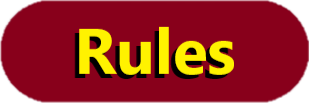
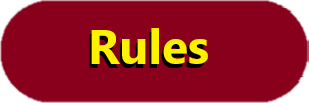
finished base game, changed main menu a bit

diff --git a/WAR/Game.py b/WAR/Game.py
@@ -53,12 +53,20 @@ singleplayer_img = pygame.image.load('Assets/start_btn.png').convert_alpha()
 singleplayer_img_hover = pygame.image.load('Assets/start_btn_hover.png').convert_alpha()
 multiplayer_img = pygame.image.load('Assets/start_btn2.png').convert_alpha()
 multiplayer_img_hover = pygame.image.load('Assets/start_btn2_hover.png').convert_alpha()
-rules_img = pygame.image.load('Assets/rules_btn_hover.png').convert_alpha()
+rules_img = pygame.image.load('Assets/rules_btn.png').convert_alpha()
 rules_img_hover = pygame.image.load('Assets/rules_btn_hover.png').convert_alpha()
 continue_img = pygame.image.load('Assets/continue_btn.png').convert_alpha()
 continue_img_hover = pygame.image.load('Assets/continue_btn_hover.png').convert_alpha()
 Card_back_img = pygame.image.load('Assets/BACK.png').convert_alpha()
 Discard_img = pygame.image.load('Assets/DISCARD.png').convert_alpha()
+Ace_img =  pygame.image.load('Assets/1CARD.png').convert_alpha()
+Ace_img = pygame.transform.scale(Ace_img,(150, 200))
+Seven_img =  pygame.image.load('Assets/7CARD.png').convert_alpha()
+Seven_img = pygame.transform.scale(Seven_img,(150, 200))
+King_img =  pygame.image.load('Assets/13CARD.png').convert_alpha()
+King_img = pygame.transform.scale(King_img,(150, 200))
+Jack_img =  pygame.image.load('Assets/11CARD.png').convert_alpha()
+Jack_img = pygame.transform.scale(Jack_img,(150, 200))
 
 #defining a function named draw_text that draws the text and font on the coordinate plane 
 def draw_text(text, font, text_col, x, y,):    #setting a variable as the text that is given and renders is with a colour
@@ -146,6 +154,7 @@ def Singleplayer(round_start, clicked, Shuffled, roundnum, ):
             print(Player1)
             print(Player2)
             screen.blit(pygame.transform.scale(bg_img,(screen_width,screen_height)), (0,0))
+            draw_text("Round "+str(roundnum), Countdown_font, White, 40, 20)
             draw_text('Player 1 Cards: ' +str(len(Player1)), font, Black, 380, 10)
             draw_text('Computer Cards: ' +str(len(Player2)), font, Black, 360, 540)
             draw_text("Press A to flip", font, Blue, 680, 10)
@@ -167,6 +176,7 @@ def Singleplayer(round_start, clicked, Shuffled, roundnum, ):
             pygame.display.update()
             pygame.time.delay(1000)
             screen.blit(pygame.transform.scale(bg_img,(screen_width,screen_height)), (0,0))
+            draw_text("Round "+str(roundnum), Countdown_font, White, 40, 20)
             draw_text('Player 1 Cards: ' +str(len(Player1)), font, Black, 380, 10)
             draw_text('Computer Cards: ' +str(len(Player2)), font, Black, 360, 540)
             draw_text("Press A to flip", font, Blue, 680, 10)
@@ -246,16 +256,6 @@ def Singleplayer(round_start, clicked, Shuffled, roundnum, ):
 
     return Shuffled, round_start, roundnum
 
-    clicked = False
-    while len(Player1) != 26 or len(Player2) != 26 or roundnum != 100:
-                    
-        keys_pressed = pygame.key.get_pressed()
-        if keys_pressed[pygame.K_a] and clicked == False:
-            Play1.append[Player1[0]]
-            Player1.remove(Player1[0])
-        elif keys_pressed[pygame.K_a] == False:
-            clicked = False
-
 def Multiplayer(round_start, clicked, Shuffled, roundnum, ):
 
     if Shuffled == False:
@@ -280,6 +280,7 @@ def Multiplayer(round_start, clicked, Shuffled, roundnum, ):
             
         if round_start == True:
             screen.blit(pygame.transform.scale(bg_img,(screen_width,screen_height)), (0,0))
+            draw_text("Round "+str(roundnum), Countdown_font, White, 40, 20)
             draw_text('Player 1 Cards: ' +str(len(Player1)), font, Black, 380, 10)
             draw_text('Player 2 Cards: ' +str(len(Player2)), font, Black, 380, 540)
             draw_text("Press A to flip", font, Blue, 680, 10)
@@ -302,6 +303,7 @@ def Multiplayer(round_start, clicked, Shuffled, roundnum, ):
             pygame.display.update()
             pygame.time.delay(1000)
             screen.blit(pygame.transform.scale(bg_img,(screen_width,screen_height)), (0,0))
+            draw_text("Round "+str(roundnum), Countdown_font, White, 40, 20)
             draw_text('Player 1 Cards: ' +str(len(Player1)), font, Black, 380, 10)
             draw_text('Player 2 Cards: ' +str(len(Player2)), font, Black, 380, 540)
             draw_text("Press A to flip", font, Blue, 680, 10)
@@ -402,10 +404,14 @@ Game_deck.append(13)
 
 #creating buttons and giving coordinates to place them on the window and an image to display
 #btn = button
-Singleplayer_btn = MenuButton(330, 270, singleplayer_img)
-Multiplayer_btn = MenuButton(330, 400, multiplayer_img)
-Rules_btn = MenuButton(330, 400, rules_img)
+Singleplayer_btn = MenuButton(340, 220, singleplayer_img)
+Multiplayer_btn = MenuButton(340, 345, multiplayer_img)
+Rules_btn = MenuButton(345, 470, rules_img)
 Continue_btn = MenuButton(330, 450, continue_img)
+Card_btn1 = MenuButton(75, 75, Card_back_img)
+Card_btn2 = MenuButton(75, 350, Card_back_img)
+Card_btn3 = MenuButton(775, 75, Card_back_img)
+Card_btn4 = MenuButton(775, 350, Card_back_img)
 
 #starts the main game loop
 run = True
@@ -419,6 +425,7 @@ while run == True:
     if Gameplay == 0:
         #prints the background first before the other images so there is no overlap
         screen.blit(pygame.transform.scale(bg_img,(screen_width,screen_height)), (0,0))
+        screen.blit(pygame.transform.scale(title_img,(250,125)), (370,30))
 
         #sets the main menu and instructions variable to true to make them reappear
         main_menu = True
@@ -441,8 +448,12 @@ while run == True:
     #runs the section if the main menu variable is true
     if main_menu == True:
 
-        #draws the background image before anything else
-        screen.blit(pygame.transform.scale(title_img,(320,125)), (340,60))
+        
+        Card_btn1.draw(Ace_img, Card_back_img)
+        Card_btn2.draw(Seven_img, Card_back_img)
+        Card_btn3.draw(King_img, Card_back_img)
+        Card_btn4.draw(Jack_img, Card_back_img)
+        
 
         #checks if the singleplayer button was pressed
         if Singleplayer_btn.draw(singleplayer_img_hover, singleplayer_img):
@@ -458,7 +469,6 @@ while run == True:
 
             #draws the background image to remove the menu images
             screen.blit(pygame.transform.scale(bg_img,(screen_width,screen_height)), (0,0))
-
         #checks if the multiplayer button was pressed
         if Multiplayer_btn.draw(multiplayer_img_hover, multiplayer_img):
 
@@ -467,6 +477,20 @@ while run == True:
 
             #sets the Gameplay variable to 2 (multiplayer game)
             Gameplay = 2
+
+            #delays button reaction by 100 milliseconds
+            pygame.time.delay(100)
+
+            #draws that background image to remove menu images
+            screen.blit(pygame.transform.scale(bg_img,(screen_width,screen_height)), (0,0))
+
+        if Rules_btn.draw(rules_img_hover, rules_img):
+
+            #sets the main menu variable to false(stops the main menu screen loop)
+            instructions = False
+
+            #sets the Gameplay variable to 2 (multiplayer game)
+            Gameplay = 0
 
             #delays button reaction by 100 milliseconds
             pygame.time.delay(100)
